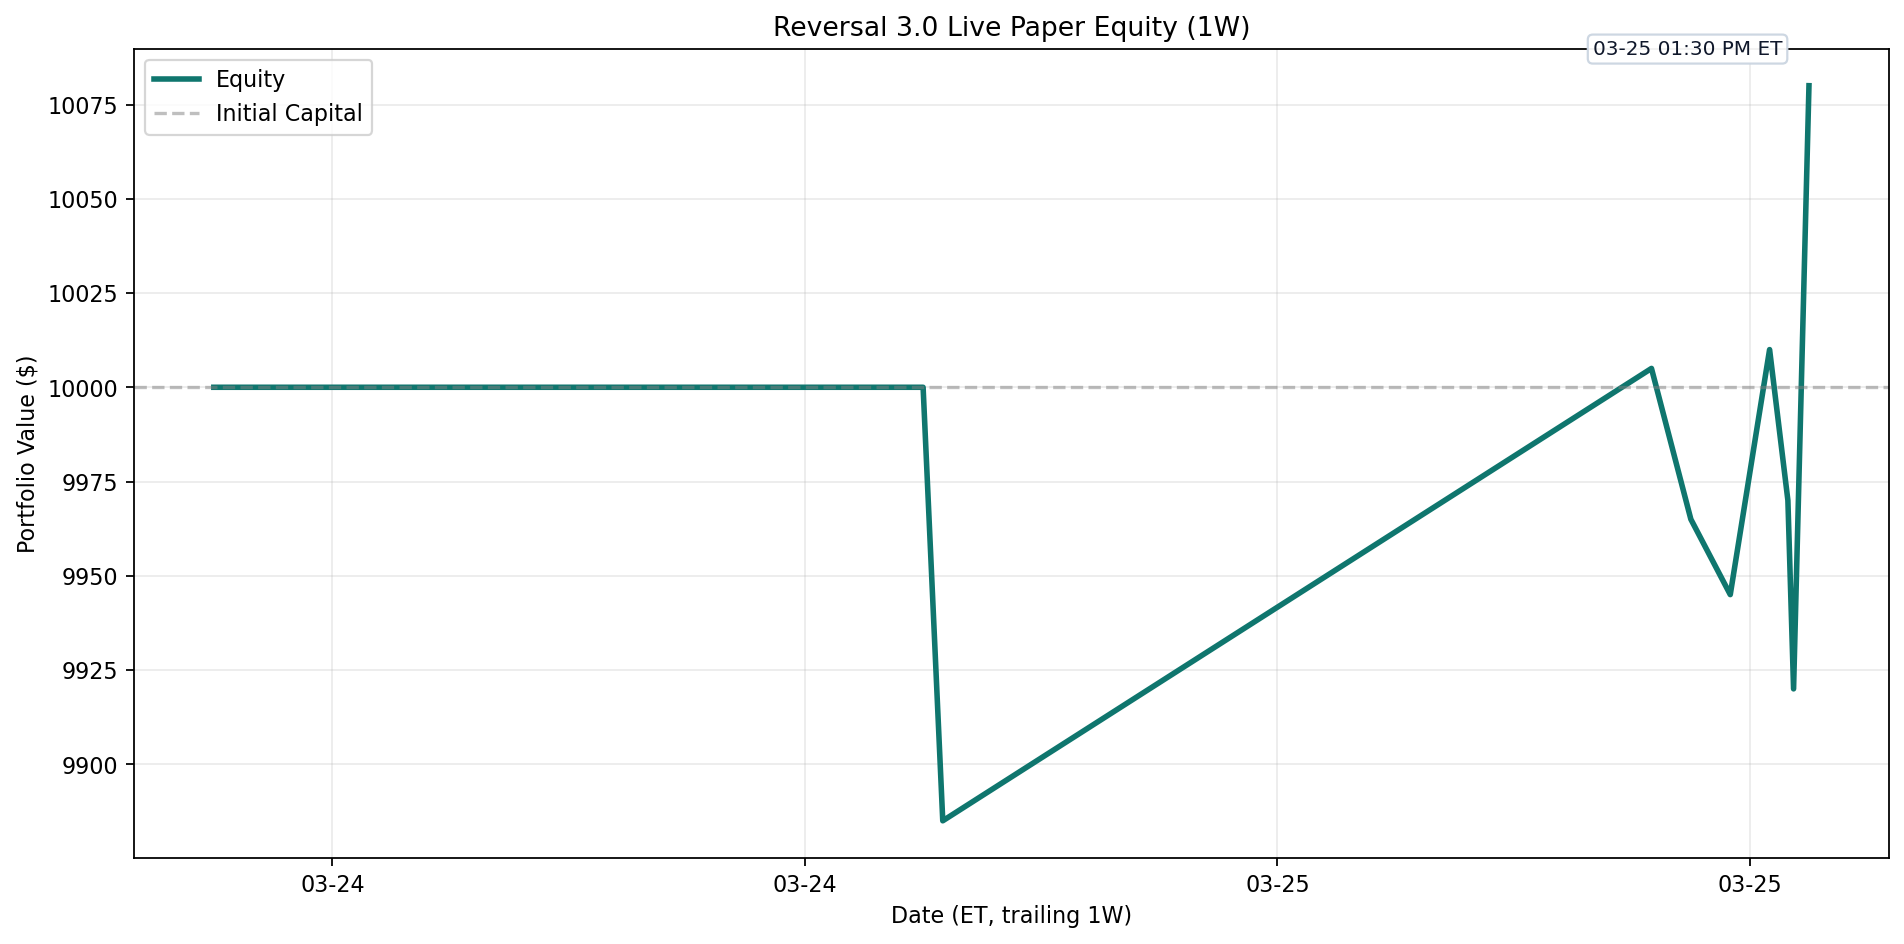
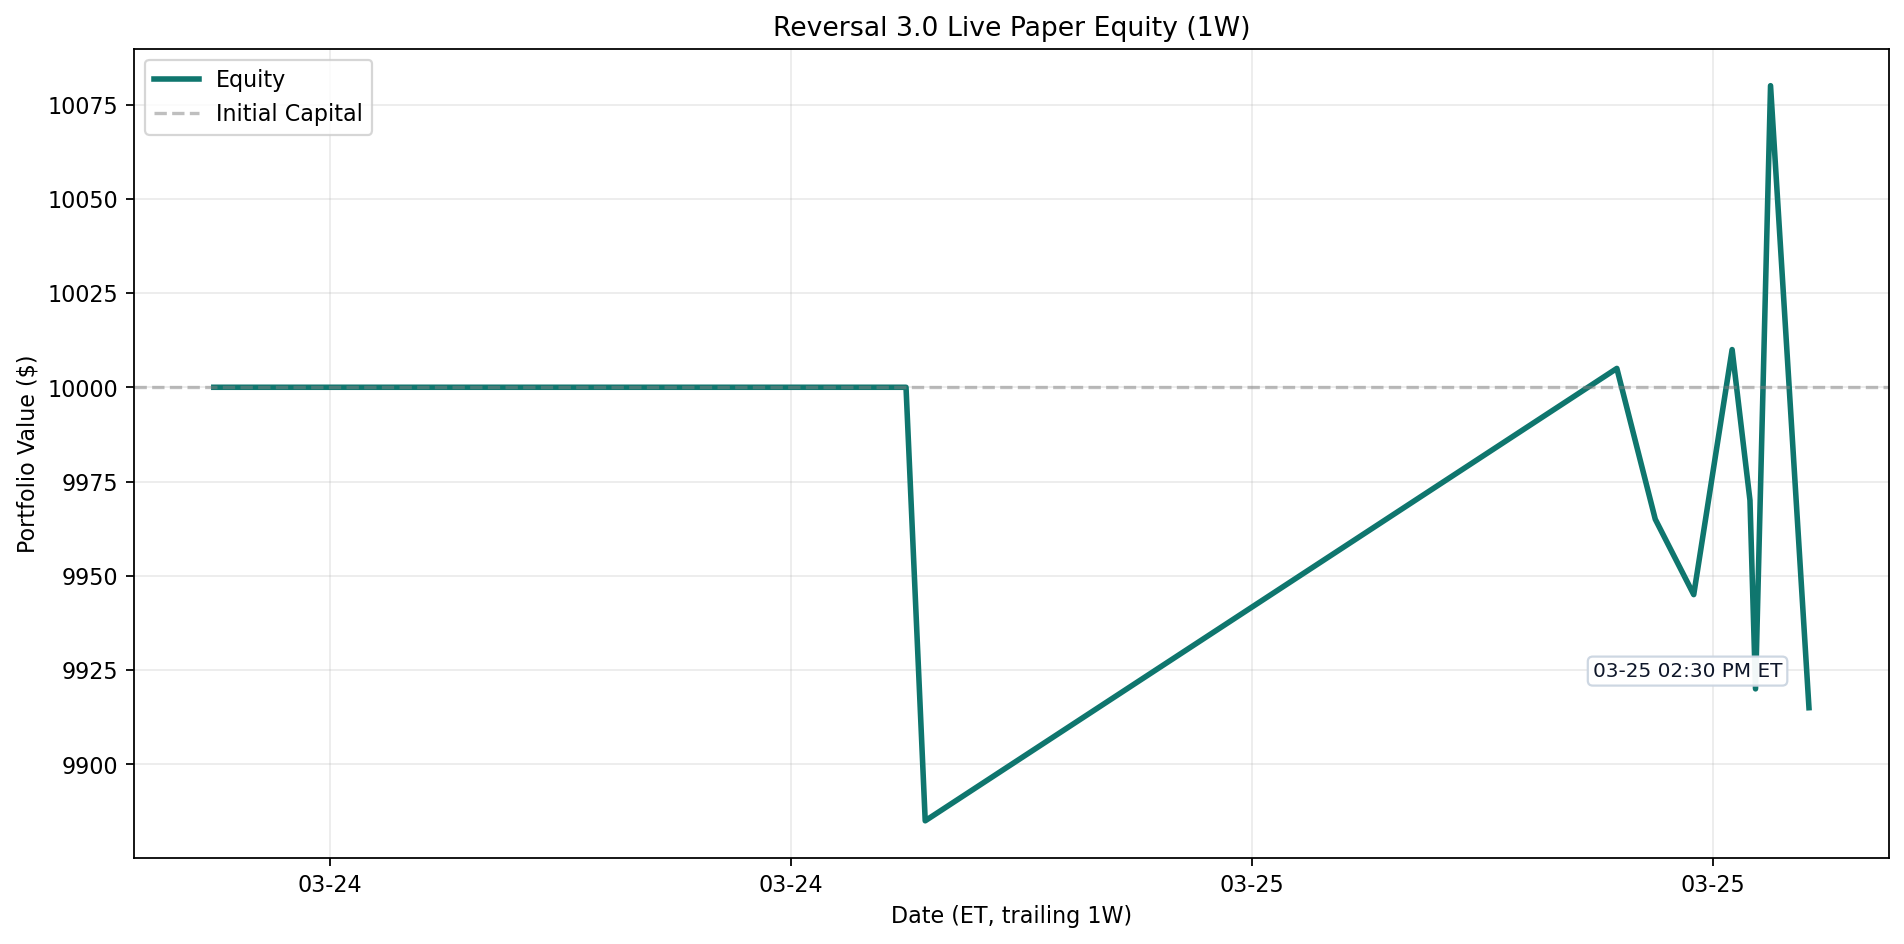
Update Reversal 3.0 live paper test 2026-03-25 14:30 ET

diff --git a/results/reversal_3_0_live/README.md b/results/reversal_3_0_live/README.md
@@ -1,7 +1,7 @@
 # Reversal 3.0 Live Paper Test
 
-Last updated (ET): `2026-03-25 13:30:01 EDT`
-Last processed slot: `manage_1330`
+Last updated (ET): `2026-03-25 14:30:01 EDT`
+Last processed slot: `manage_1430`
 
 ## Active Configuration
 
@@ -20,16 +20,16 @@ Last processed slot: `manage_1330`
 ## Portfolio Snapshot
 
 - Cash: `$5,455.00`
-- Equity: `$10,080.00`
+- Equity: `$9,915.00`
 - Realized PnL: `$0.00`
-- Unrealized PnL: `$80.00`
+- Unrealized PnL: `$-85.00`
 - Open positions: `1`
 
 ## Open Positions
 
 ```text
 ticker     contract_symbol entry_trade_date  business_days_held  entry_option_price  current_option_price  entry_spot  current_spot  unrealized_pnl  unrealized_return_pct  success_rate  matched_signals  current_drop_pct  entry_iv_pct  current_iv_pct  rolling_sigma_20d_pct
-  AVGO AVGO260515C00320000       2026-03-24                   1               22.72                 23.12      318.55        319.61            80.0                   1.76         93.33               30              1.23         48.32           49.08                   39.5
+  AVGO AVGO260515C00320000       2026-03-24                   1               22.72                  22.3      318.55        318.87           -85.0                  -1.87         93.33               30              1.23         48.32           47.96                   39.5
 ```
 
 ## Today's Closed Trades (2026-03-25)
@@ -40,18 +40,18 @@ _None_
 
 ```text
 ticker  success_rate_%  matched_signals  current_drop_%  target_rebound_$  target_price  rolling_sigma_20d_%  call_candidate
-  FANG          100.00               22            0.95              1.32        196.50                29.12            True
-   WDC           97.06               34            1.38              2.91        299.80                74.01            True
-   STX           96.15               26            2.37              7.03        421.21                70.55            True
-  CDNS           90.24               41            0.78              1.56        283.65                27.43            True
-  KLAC           90.00               30            1.29             14.09       1560.15                48.83            True
-  CTAS           89.29               28            0.69              0.86        177.76                29.68            True
-  SNPS           87.50               32            1.27              3.69        414.04                37.59            True
-  AMAT           86.36               22            1.88              4.92        371.88                51.46            True
-  CTSH           86.11               36            0.51              0.21         60.15                32.06            True
-  CHTR           85.71               35            0.80              1.22        217.08                38.80            True
-    MU           85.71               14            3.91             10.82        390.89                67.96            True
- CMCSA           85.00               20            1.44              0.29         29.09                27.42            True
+  FANG          100.00               23            0.84              1.17        196.56                29.12            True
+   WDC           97.37               38            0.61              1.28        300.50                74.01            True
+   STX           97.30               37            0.88              2.62        423.10                70.55            True
+  AMAT           91.43               35            0.52              1.35        373.41                51.46            True
+  CDNS           90.24               41            0.73              1.45        283.70                27.43            True
+  KLAC           89.19               37            0.54              5.97       1563.63                48.83            True
+    MU           88.89               18            3.45              9.56        391.43                67.96            True
+  SNPS           87.50               24            1.95              5.68        413.18                37.59            True
+  CTAS           85.71               21            1.05              1.31        177.57                29.68            True
+  CRWD           84.62               26            1.51              4.16        391.21                45.29            True
+  CTSH           84.38               32            0.62              0.26         60.13                32.06            True
+  BKNG           82.86               35            0.67             20.23       4281.98                41.15            True
 ```
 
 ## Recent Events

diff --git a/README.md b/README.md
@@ -3,15 +3,15 @@
 <!-- reversal-3.0-live:start -->
 ## Reversal 3.0 Live Paper Test
 
-- Last updated (ET): `2026-03-25 13:30:01 EDT`
-- Equity: `$10,080.00` | Realized: `$0.00` | Unrealized: `$80.00` | Open positions: `1`
+- Last updated (ET): `2026-03-25 14:30:01 EDT`
+- Equity: `$9,915.00` | Realized: `$0.00` | Unrealized: `$-85.00` | Open positions: `1`
 - Today closed trades: `0`
-- Current slot: `manage_1330`
+- Current slot: `manage_1430`
 - Chart: trailing `1W` with ET timestamps
 
 ```text
 ticker     contract_symbol  current_option_price  unrealized_pnl  unrealized_return_pct  business_days_held
-  AVGO AVGO260515C00320000                 23.12            80.0                   1.76                   1
+  AVGO AVGO260515C00320000                  22.3           -85.0                  -1.87                   1
 ```
 
 ![Reversal 3.0 Live Equity 1W](assets/reversal_3_0_live_equity.png)
